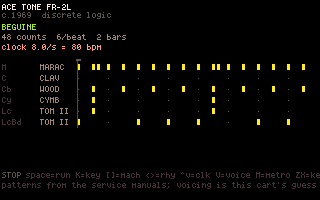
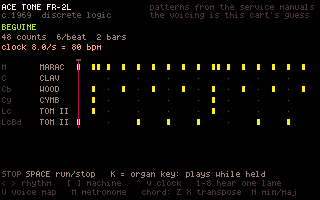
autorhythm's footer says what the keys DO, and the chord row admits when it is inert
The old single legend line abbreviated so hard ("ZX=key") that the chord
transpose was unlearnable from the screen, and it ran 6px off the 320px canvas
besides. Three lines now, each phrased as what the key does; FONT_SMALL advances
5px/char, so a line from x=2 holds 63 characters and no more.

The live chord moves down beside its own keys (up by the rhythm name, the longest
name — M255 COUNTRY WESTERN at 157px — would have run under it) and lights up
only on the machines that actually chart accompaniment lanes: the Hammond patent
and the SGS M255. Everywhere else Z/X/N are inert and the row is dim, which is
the honest answer to "do these keys do anything here". has_acc() is the old
inline scan lifted out, since two places ask now.

The standing disclaimer moves to the top-right to free the legend line.
Thumbnail re-baked — the footer is what changed.

Changed region(s): [[0.0, 0.84, 1.0, 0.99], [0.4688, 0.0, 1.0, 0.09], [0.2188, 0.3, 0.25, 0.63]]

diff --git a/tools/carts/autorhythm.c b/tools/carts/autorhythm.c
@@ -16,7 +16,7 @@
   "description": {
     "summary": "76 preset rhythms off three generations of organ rhythm hardware, read from the service manuals, with the mechanism on screen instead of a sidx grid.",
     "detail": "Every latin pattern in this studio used to be a plausible reconstruction. These are not: all 76 come off manufacturer documents (docs/design/rhythm-box-patterns.md) and each one is traceable to a page and a figure. The cart is built to show what makes them unlike a sidx grid. ONE FIXED CLOCK, RE-DIVIDED PER RHYTHM: the FR-2L waltz splits the same 24-count bar by three, its slow rock reads all 48 counts as one 12/8 bar. SKIPPED STATES: the TR-77 hatches out counts a rhythm does not use, so its counter steps OVER them, which is what gives 6/8 MARCH its meter, and you can watch it happen. MARKS THAT DO NOT SOUND: on the SGS chips the trigger is the rising edge of a ROM bit, so two marks on consecutive states fire once, and those cells are drawn hollow (66 of the M252's 955 marks are hollow). GATES, NOT HITS: a few lanes are held rather than struck. The tempo control is the machine's own VARIABLE CLOCK in ticks per second, not a BPM, because that is what these boxes actually had; the implied BPM is shown but derived. THE VOICES ARE NOT SOURCED and the cart says so: the FR-2L scan is about 75 dpi, its lane labels are interpolation rather than ink, so the printed label is shown dim and the voice you hear is assigned BY LANE ORDER from the sideman.h tube bank, which you can rotate. Patterns sourced, voicing yours.",
-    "controls": "SPACE run/stop. K = the organ key: hold it and the rhythm plays while held, released it stops (Elektor 1976 fig 22: on these instruments the drums began when you played). LEFT/RIGHT rhythm, [ and ] machine, UP/DOWN clock rate. V rotates the voice map. M switches the TR-77 metronome click on (it is a click for the player, not part of the kit, so it is off by default). 1-8 audition a lane."
+    "controls": "SPACE run/stop. K = the organ key: hold it and the rhythm plays while held, released it stops (Elektor 1976 fig 22: on these instruments the drums began when you played). LEFT/RIGHT rhythm, [ and ] machine, UP/DOWN clock rate. V rotates the voice map. M switches the TR-77 metronome click on (it is a click for the player, not part of the kit, so it is off by default). 1-8 audition a lane. Z and X transpose the held chord a semitone and N flips it minor/major: those two only do anything on the machines that HAVE accompaniment lanes (the Hammond patent and the SGS M255), and the footer lights their row up when they do."
   }
 }
 de:meta */
@@ -122,6 +122,15 @@ static int   flash[SM_NV];
 static int   lastfire[SM_NV];
 
 static const RbRhythm *cur(void) { return &MACH[mach].set[rhy]; }
+
+// Does this rhythm drive the accompaniment at all? Only the Hammond patent and the M255
+// chart CHORD/BASS lanes, so on every other machine Z/X/N are inert and the UI says so.
+static bool has_acc(void) {
+    const RbRhythm *r = cur();
+    for (int l = 0; l < r->nlanes; l++)
+        if (r->lane[l].role & (RB_ROLE_CHORD | RB_ROLE_BASSLO | RB_ROLE_BASSHI)) return true;
+    return false;
+}
 
 // The TR-77 prints a METRONOME lane beside each rhythm. It is a click for the player,
 // not part of the kit, and the machine could switch it off, so this cart does too
@@ -237,7 +246,7 @@ static void draw_grid(void) {
     const RbRhythm *r = cur();
     int cw = (r->counts <= 16) ? 14 : (r->counts <= 32) ? 7 : CW;
     int playc = order[sidx];
-    int rh = (r->nlanes > 10) ? 9 : RH;          // 12 lanes still fit above the footer
+    int rh = (r->nlanes > 10) ? 8 : RH;          // 12 lanes still clear the 3-line footer
 
     for (int l = 0; l < r->nlanes; l++) {
         int y = GY + l * rh;
@@ -298,6 +307,9 @@ static void draw_panel(void) {
     const RbRhythm *r = cur();
     print(MACH[mach].name, 2, 4, CLR_WHITE);
     print(MACH[mach].era, 2, 12, CLR_DARK_GREY);
+    // the standing disclaimer, moved out of the footer to free a legend line for the keys
+    print("patterns from the service manuals", 150, 4, CLR_DARKER_GREY);
+    print("the voicing is this cart's guess", 150, 12, CLR_DARKER_GREY);
     print(r->name, 2, 24, CLR_LIME_GREEN);
     // the provenance line, but only when it says more than the name already does
     if (strcmp(r->source, r->name) != 0 && !MACH[mach].note)
@@ -317,23 +329,29 @@ static void draw_panel(void) {
     }
     if (r->flags & RB_EDGE_ONLY) print("edge-trig", 150, 34, CLR_DARK_GREY);
     if (MACH[mach].note) print(MACH[mach].note, 2, 54, CLR_DARK_ORANGE);
-    {   // the chord the accompaniment lanes gate, when this machine has any
-        bool acc = false;
-        for (int l = 0; l < r->nlanes; l++)
-            if (r->lane[l].role & (RB_ROLE_CHORD | RB_ROLE_BASSLO | RB_ROLE_BASSHI)) acc = true;
-        if (acc) {
-            static const char *NOTE[12] = {"C","C#","D","D#","E","F","F#","G","G#","A","A#","B"};
-            char b2[48];
-            snprintf(b2, sizeof b2, "gating %s%s", NOTE[root % 12], minor ? "m" : "");
-            print(b2, 150, 24, CLR_LIME_GREEN);
-        }
-    }
 
-    int y = 172;
+    // Three legend lines, each written to say what a key DOES rather than abbreviate its
+    // name — the old single line abbreviated so hard ("ZX=key") that the chord transpose was
+    // unlearnable from the screen, and it ran 6px off a 320px canvas besides. FONT_SMALL
+    // advances 5px/char, so a line starting at x=2 holds 63 characters and no more.
+    int y = 171;
     print((running || keyheld) ? "RUN" : "STOP", 2, y, (running || keyheld) ? CLR_RED : CLR_DARK_GREY);
-    print("space=run K=key []=mach <>=rhy ^v=clk V=voice M=metro ZX=key", 26, y, CLR_DARKER_GREY);
-    print("patterns from the service manuals; voicing is this cart's guess", 2, y + 10,
-          CLR_DARKER_GREY);
+    print("SPACE run/stop   K = organ key: plays while held", 26, y, CLR_MEDIUM_GREY);
+    print("< > rhythm   [ ] machine   ^ v clock   1-8 hear one lane", 2, y + 9, CLR_DARKER_GREY);
+    print("V voice map   M metronome   ", 2, y + 18, CLR_DARKER_GREY);
+    // The chord row carries the LIVE chord and lights up only on the machines that have
+    // accompaniment lanes, so it answers "what are these keys", "do they do anything here"
+    // and "what is held right now" in one place. It sits next to its own keys rather than
+    // up beside the rhythm name, where the longest name (M255 COUNTRY WESTERN, 157px) would
+    // have run straight under it.
+    {
+        static const char *NOTE[12] = {"C","C#","D","D#","E","F","F#","G","G#","A","A#","B"};
+        char b2[48];
+        if (has_acc()) snprintf(b2, sizeof b2, "chord %s%s: Z X transpose  N min/maj",
+                                NOTE[root % 12], minor ? "m" : "");
+        else           snprintf(b2, sizeof b2, "chord: Z X transpose  N min/maj");
+        print(b2, 2 + 28 * 5, y + 18, has_acc() ? CLR_LIME_GREEN : CLR_DARKER_GREY);
+    }
 }
 
 void draw(void) {
